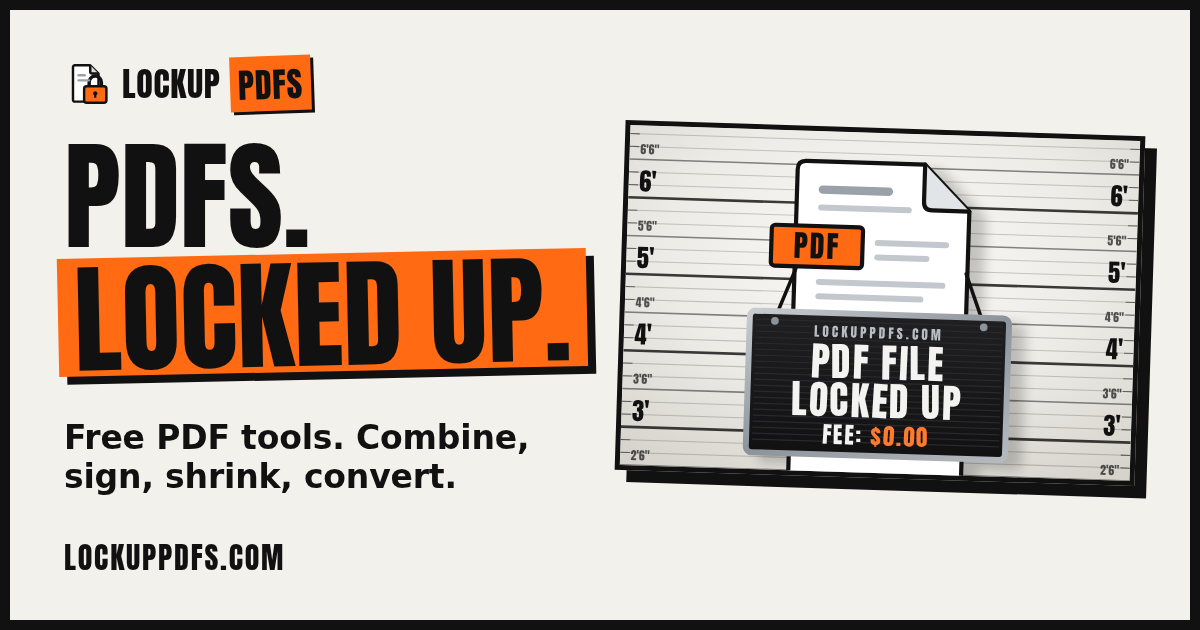
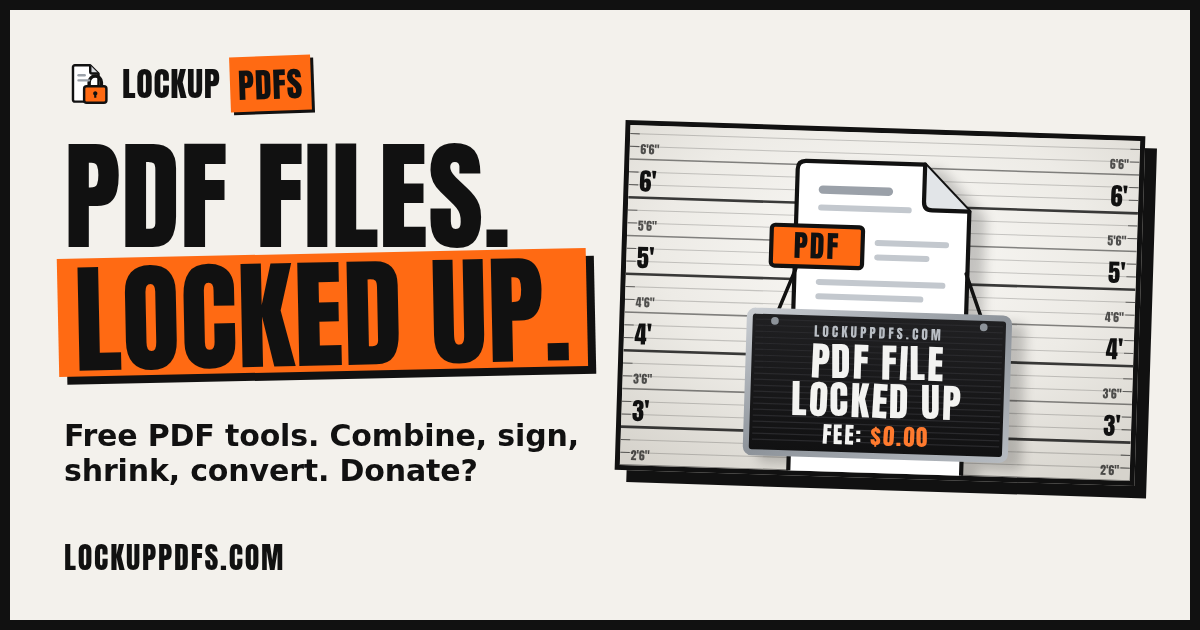
Campaign: headline 'PDF files. Locked up.' and the product line ends 'Donate?'
Share image re-rendered with the new words.

Changed region(s): [[0.0308, 0.6635, 0.4933, 0.7841], [0.185, 0.2111, 0.4317, 0.3921]]

diff --git a/src/lib/site/site.ts b/src/lib/site/site.ts
@@ -65,14 +65,14 @@ const lockup: Campaign = {
 	description:
 		'Combine, sign, lock and fix PDFs for free. Your files stay on your device, and nothing is charged when you download.',
 	splash: {
-		headline: ['PDFs.', 'Locked up.'],
+		headline: ['PDF files.', 'Locked up.'],
 		dropping: 'Drop them in.',
 		photoLabel:
 			'A booking photo of a PDF document standing against a height chart, holding a letter board that reads: PDF file, locked up, fee: $0.00.',
 		// "FEE", not "CHARGE": the giving lead wants PDF files charged in court, so the board
 		// only says what the download costs.
 		placard: { header: 'LOCKUPPDFS.COM', lines: ['PDF FILE', 'LOCKED UP'], fee: ['FEE:', '$0.00'] },
-		statement: 'Free PDF tools. Combine, sign, shrink, convert.',
+		statement: 'Free PDF tools. Combine, sign, shrink, convert. Donate?',
 		drop: 'or drop files here',
 		chips: [
 			{ label: 'Combine', tool: 'Combine files' },
@@ -91,8 +91,8 @@ const lockup: Campaign = {
 	},
 	fee: { label: 'Download fee', amount: '$0.00' },
 	share: {
-		line: 'Free PDF tools. Combine, sign, shrink, convert.',
-		alt: 'A booking photo of a PDF document holding a letter board: PDF file, locked up, fee: $0.00. Beside it: PDFs. Locked up. Free PDF tools. lockuppdfs.com'
+		line: 'Free PDF tools. Combine, sign, shrink, convert. Donate?',
+		alt: 'A booking photo of a PDF document holding a letter board: PDF file, locked up, fee: $0.00. Beside it: PDF files. Locked up. Free PDF tools. lockuppdfs.com'
 	},
 	ask: {
 		lead: 'That was free. Donate to charity, not PDF software companies: give what you would have paid to child protection instead.',

diff --git a/tests/e2e/lockup/splash.spec.ts b/tests/e2e/lockup/splash.spec.ts
@@ -16,8 +16,8 @@ test('on a 390x844 phone the first screen says what the site is, shows the butto
 	await page.goto('/');
 	const photo = page.getByRole('img', { name: /^A booking photo of a PDF document/ });
 	await expect(photo).toBeInViewport({ ratio: 1 });
-	await expect(page.getByRole('heading', { level: 1, name: 'PDFs. Locked up.' })).toBeInViewport({ ratio: 1 });
-	const statement = page.getByText('Free PDF tools. Combine, sign, shrink, convert.');
+	await expect(page.getByRole('heading', { level: 1, name: 'PDF files. Locked up.' })).toBeInViewport({ ratio: 1 });
+	const statement = page.getByText('Free PDF tools. Combine, sign, shrink, convert. Donate?');
 	await expect(statement).toBeInViewport({ ratio: 1 });
 	const choose = page.getByRole('button', { name: 'Choose files' });
 	await expect(choose).toBeInViewport({ ratio: 1 });
@@ -92,7 +92,7 @@ test('on a desktop the button sits in a drawn drop area that says so', async ({ 
 	await expect(page.getByText('or drop files here')).toBeVisible();
 	expect(await page.locator('.cta').evaluate((el) => getComputedStyle(el).borderStyle)).toBe('dashed');
 	expect((await choose.boundingBox())!.height).toBeGreaterThanOrEqual(60);
-	await expect(page.getByText('Free PDF tools. Combine, sign, shrink, convert.')).toBeInViewport({ ratio: 1 });
+	await expect(page.getByText('Free PDF tools. Combine, sign, shrink, convert. Donate?')).toBeInViewport({ ratio: 1 });
 });
 
 test('the giving links are on the splash, from site.ts, as plain new-tab links; nothing goes to another host', async ({

diff --git a/tests/ui/site.test.ts b/tests/ui/site.test.ts
@@ -19,11 +19,11 @@ describe('site variant', () => {
 		expect(SITE_ID).toBe('lockup');
 		expect(campaign?.name).toBe('LockUpPDFs');
 		expect(campaign?.title).toContain('LockUpPDFs');
-		expect(campaign?.splash.headline).toEqual(['PDFs.', 'Locked up.']);
+		expect(campaign?.splash.headline).toEqual(['PDF files.', 'Locked up.']);
 		// The board states the fee: a "charge" would fight the giving lead's court-of-law line.
 		expect(campaign?.splash.placard.fee).toEqual(['FEE:', '$0.00']);
 		expect(JSON.stringify(campaign?.splash.placard)).not.toMatch(/charge/i);
-		expect(campaign?.splash.statement).toBe('Free PDF tools. Combine, sign, shrink, convert.');
+		expect(campaign?.splash.statement).toBe('Free PDF tools. Combine, sign, shrink, convert. Donate?');
 		expect(campaign?.splash.give.heading).toBe('Donate to charity, not PDF software companies.');
 		expect(campaign?.splash.give.lead).toBe(
 			'Some sites charge for PDF files. We want PDF files charged in a court of law. Give what you would have paid to the people who protect children.'

diff --git a/design/lockup/og.html b/design/lockup/og.html
@@ -89,7 +89,7 @@
 			}
 			.line {
 				margin-top: 40px;
-				font-size: 33px;
+				font-size: 30px;
 				font-weight: 700;
 				letter-spacing: -0.005em;
 			}
